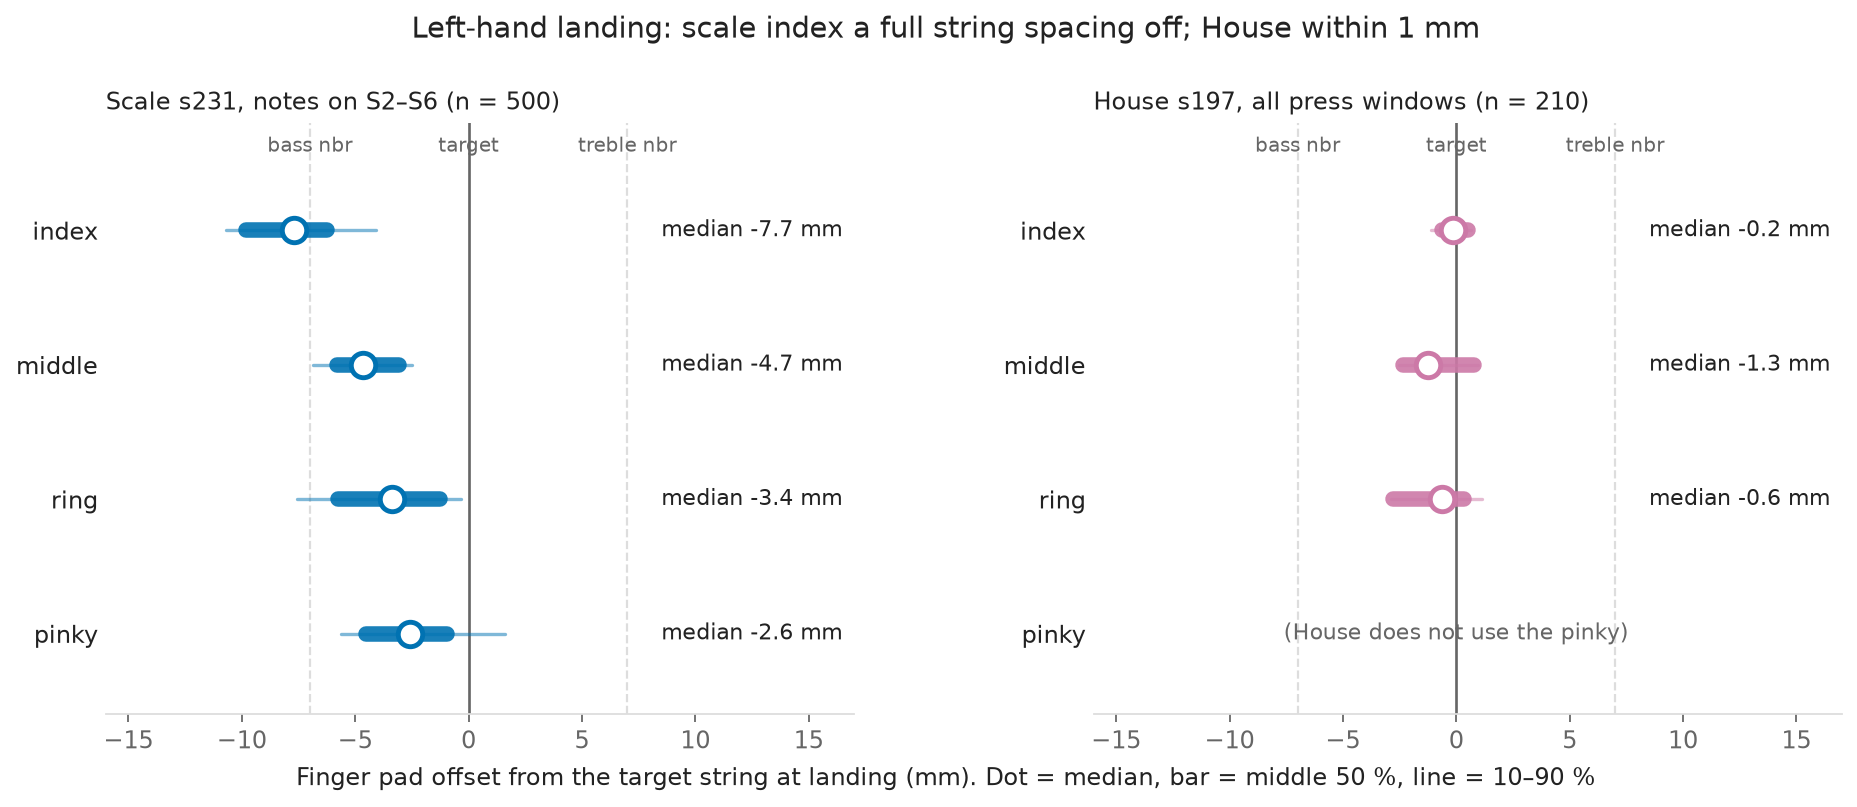
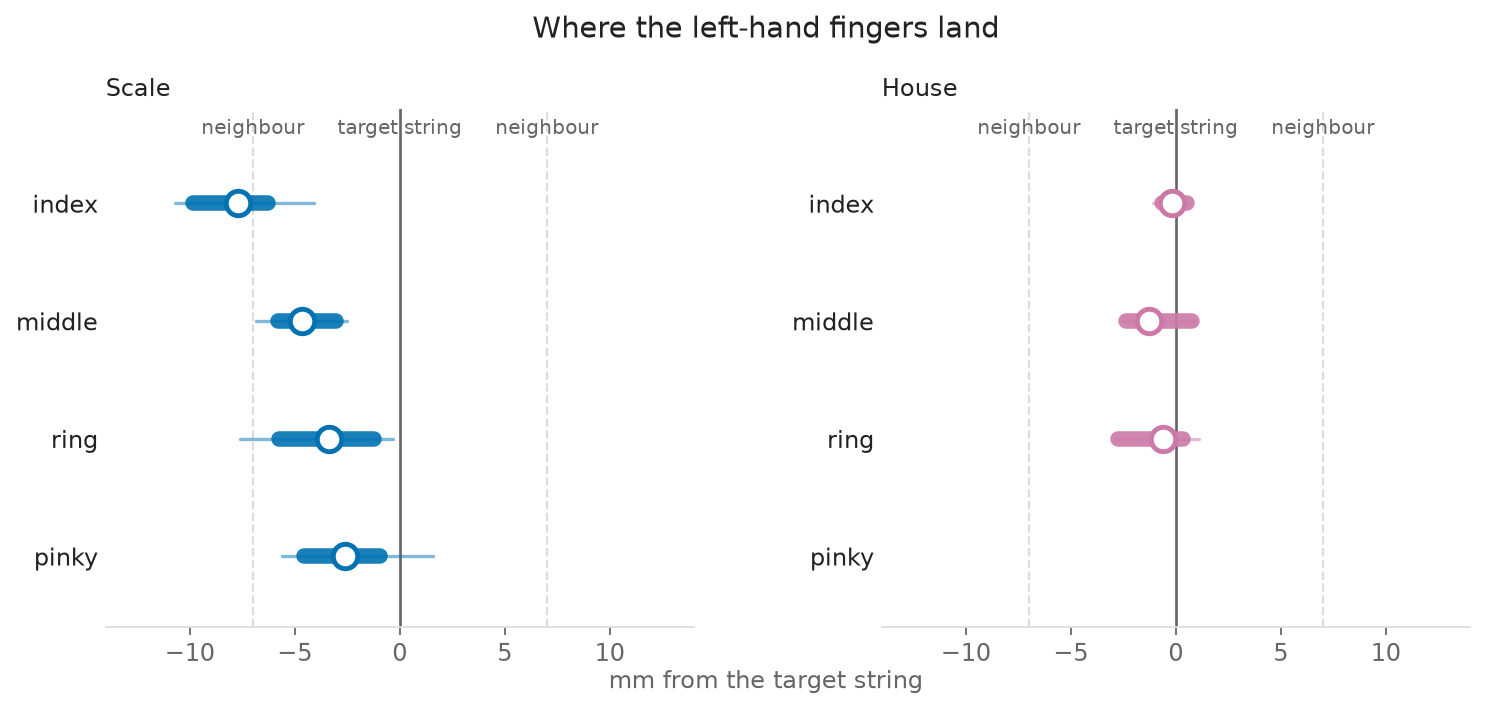
Hub 11-06: minimal figures, drop explanatory notes
Claude-Session: https://claude.ai/code/session_01XaxYq4Ba2HDRj4xyWSgLCk

diff --git a/projects/dexterous-guitar-hub-1106.html b/projects/dexterous-guitar-hub-1106.html
@@ -124,28 +124,25 @@ td.ok{color:var(--ok);font-weight:600} td.bad{color:var(--bad);font-weight:600} 
       <div class="tile"><div class="v">4 GB</div><div class="k">VRAM per run · single GPU</div></div>
       <div class="tile warn"><div class="v">2–4</div><div class="k">more 4090-class GPUs</div></div>
     </div>
-    <p class="note" style="margin:10px 0 0">Each open problem needs 5–6 single-variable runs to verify a fix: a week in series, a day in parallel. Physics is latency-bound, so more cards help and a bigger card does not.</p>
   </div>
 
   <h2>Open problems, not solved yet</h2>
   <div class="grid">
     <div class="card wide blk">
-      <div class="t">1 · Left hand: the index lands one string off</div>
+      <div class="t">1 · Left hand: the whole hand shifts to the bass side; the index lands one string off</div>
       <div class="grid">
         <figure style="margin:0"><img src="../assets/guitar-hub/figures/scale_s231_press_by_string_1106.png" alt="share of notes fretted per string" style="width:100%;border-radius:6px;border:1px solid var(--line)"></figure>
         <figure style="margin:0"><img src="../assets/guitar-hub/figures/lateral_offset_scale_vs_house_1106.png" alt="lateral landing offset" style="width:100%;border-radius:6px;border:1px solid var(--line)"></figure>
       </div>
-      <p class="note" style="margin:10px 0 0">The whole hand shifts 6–8 mm to the bass side to help the ring and pinky; the index pays. Reward terms did not fix it (2 runs); the hand has to adjust note by note, like a player.</p>
     </div>
     <div class="card wide blk b2">
-      <div class="t">2 · Right hand rushes and misses</div>
+      <div class="t">2 · Right hand: rushes and misses</div>
       <div class="tiles" style="margin-top:0">
         <div class="tile warn"><div class="v">33 %</div><div class="k">scale notes 50–120 ms early / late</div></div>
         <div class="tile warn"><div class="v">25 ms</div><div class="k">median: early</div></div>
         <div class="tile warn"><div class="v">16 %</div><div class="k">scale notes not plucked</div></div>
         <div class="tile bad"><div class="v">29 %</div><div class="k">House plucks missed</div></div>
       </div>
-      <p class="note" style="margin:10px 0 0">Caps F1 near 0.5 even with a perfect left hand. Unknown yet: inherited from the mocap or learned.</p>
     </div>
   </div>
 
@@ -160,7 +157,6 @@ td.ok{color:var(--ok);font-weight:600} td.bad{color:var(--bad);font-weight:600} 
         <tr><td>s241 · + δ, clamped</td><td class="ok">8 / 8</td><td class="warn">0.45</td></tr>
         <tr><td>s241 · δ zeroed at eval</td><td class="ok">8 / 8</td><td class="warn">0.49</td></tr>
       </table></div>
-      <p class="note" style="margin:8px 0 0">House keeps the recipe without δ. The scale needs δ (10 → 16 presses).</p>
     </div>
     <div class="card">
       <div class="badge prog">SCALE · run history</div>
@@ -172,7 +168,6 @@ td.ok{color:var(--ok);font-weight:600} td.bad{color:var(--bad);font-weight:600} 
         <tr><td>s243 · + lateral term, task head</td><td class="bad">stopped</td><td>—</td></tr>
         <tr><td>s245 · + lateral term, string heads</td><td class="bad">13.6</td><td>0.03</td></tr>
       </table></div>
-      <p class="note" style="margin:8px 0 0">Why F1 stays low: 33 % plucked early/late · 29 % wrong fret · 17 % pressed too lightly · 16 % not plucked.</p>
     </div>
   </div>
 
